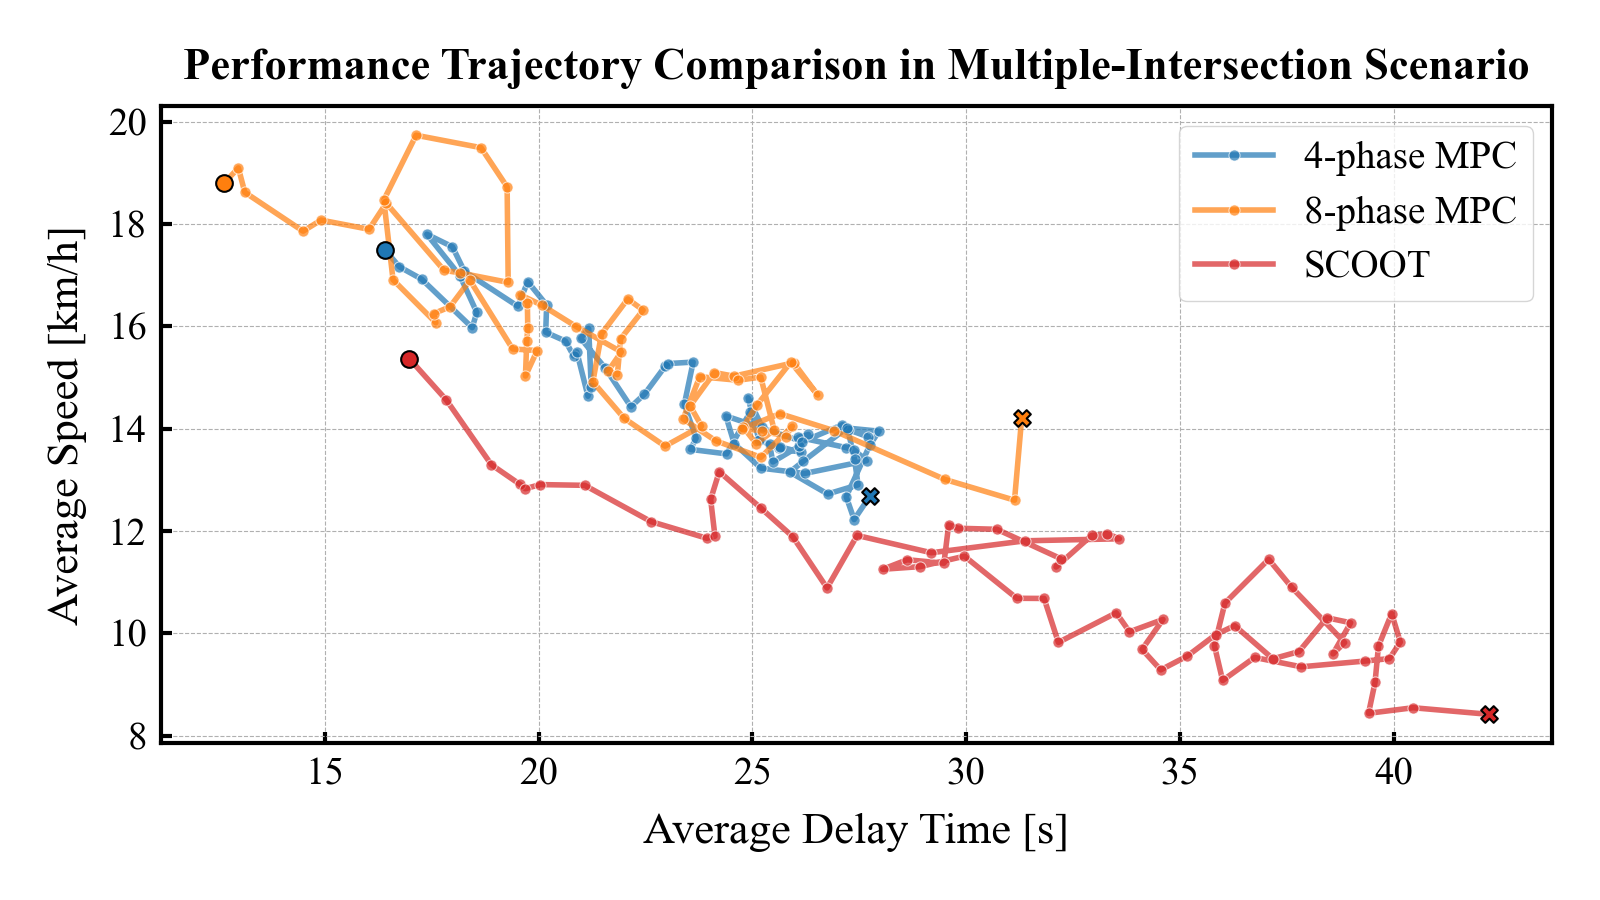
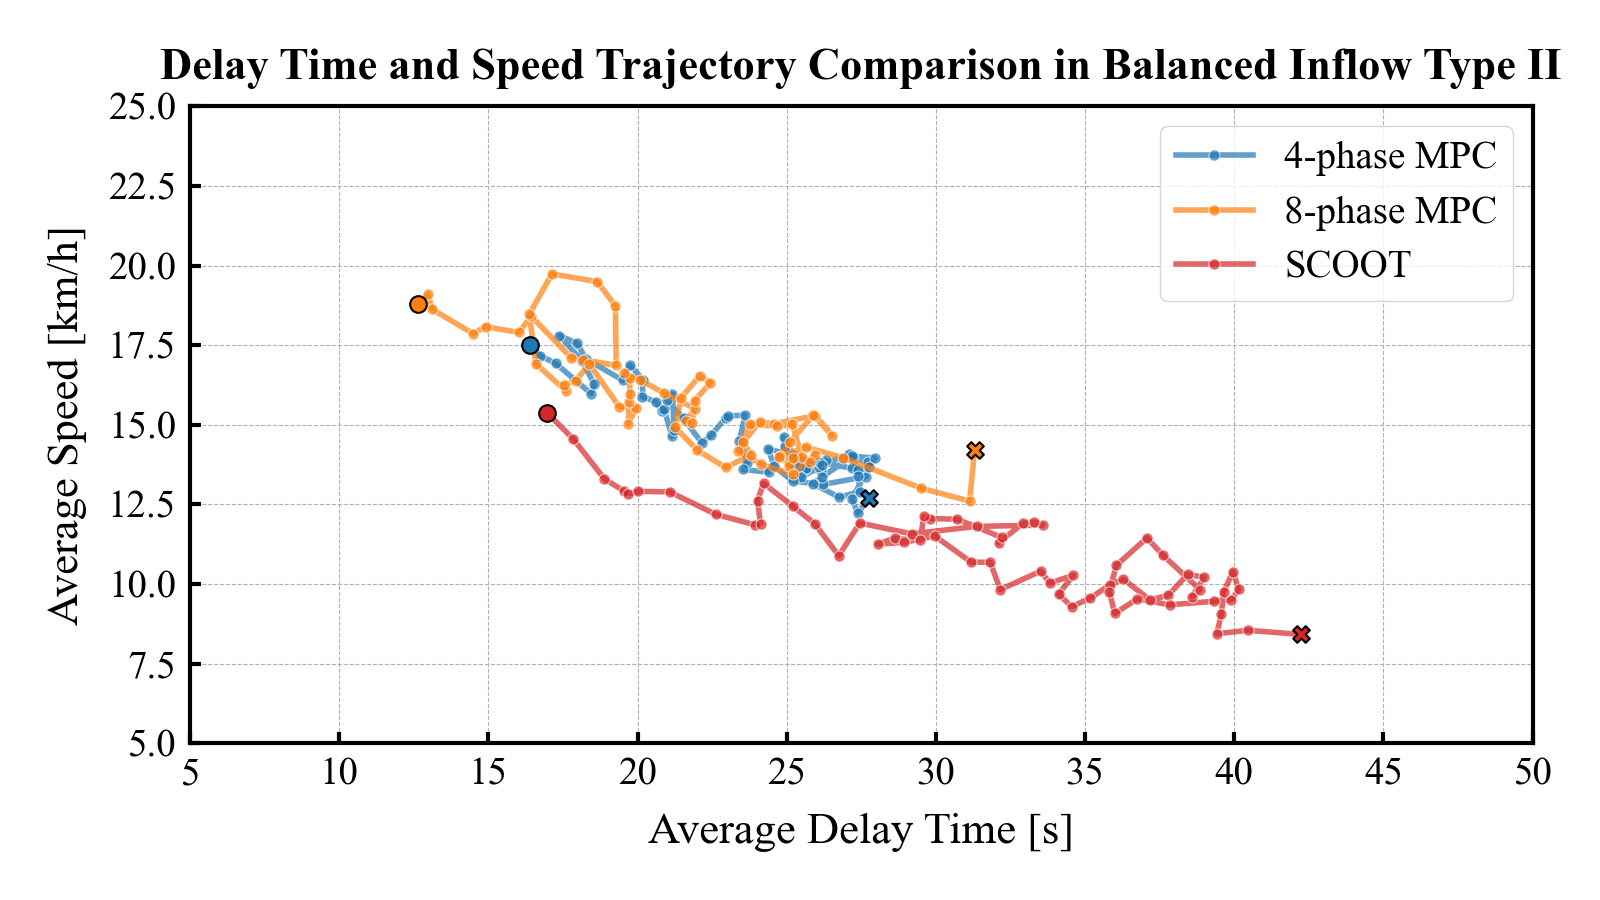
update figures

diff --git a/misc/analysis/performance_trajectory_plots/multiple_intersection/plot.py b/misc/analysis/performance_trajectory_plots/multiple_intersection/plot.py
@@ -216,7 +216,9 @@ for method_name in time_series_df['method'].unique():
 
 ax.set_title(config_yaml['figure']['title']['label'])
 ax.set_xlabel(config_yaml['figure']['axis']['label'][config_yaml['target']['performance_metrics']['x']])
+ax.set_xlim(left=config_yaml['figure']['axis']['xlim']['left'], right=config_yaml['figure']['axis']['xlim']['right'])
 ax.set_ylabel(config_yaml['figure']['axis']['label'][config_yaml['target']['performance_metrics']['y']])
+ax.set_ylim(bottom=config_yaml['figure']['axis']['ylim']['bottom'], top=config_yaml['figure']['axis']['ylim']['top'])
 ax.legend(title='')
 fig.tight_layout()
 
